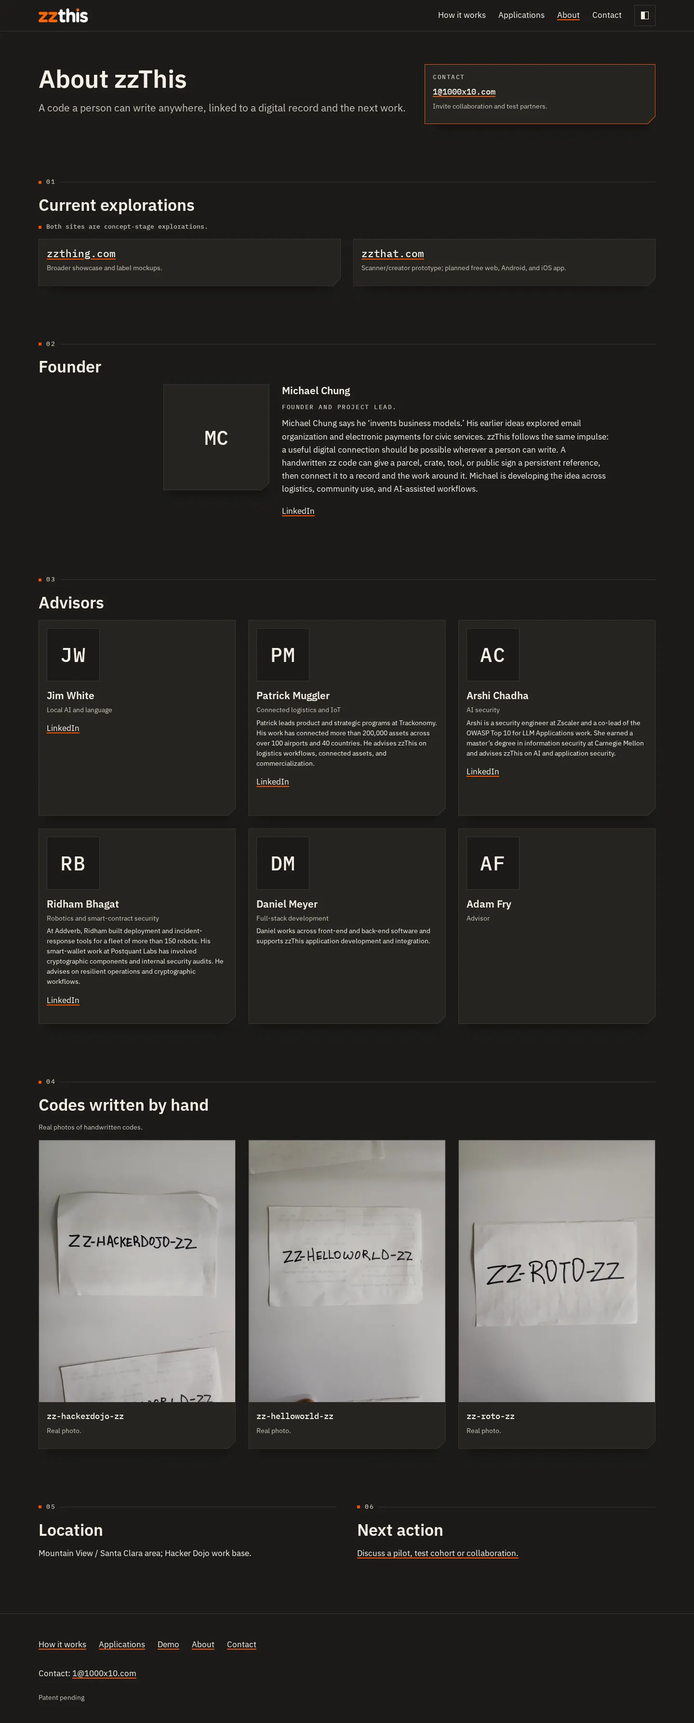
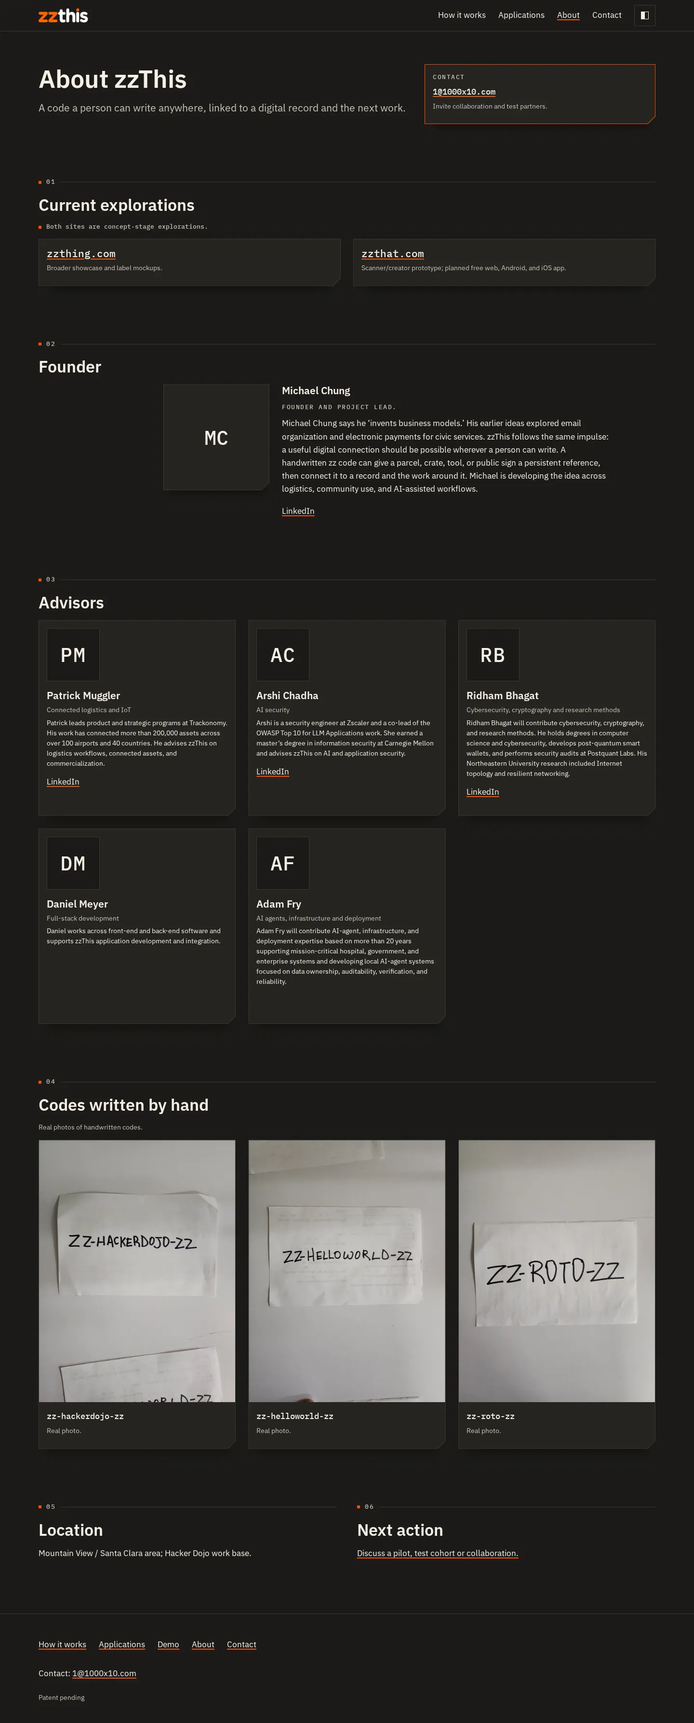
content: apply Michael's further answers to issue #10 (advisors, suggestion policy) (#23)

diff --git a/src/content/people.ts b/src/content/people.ts
@@ -36,15 +36,9 @@ export const founder: Founder = {
 
 // Q6, Q10, Q12, Q16 [MICHAEL 2026-10-02]: initials cards until approved
 // headshots arrive; profile links only where a URL was supplied. The
-// 2026-10-02 brief and wireframes list Jim White again and drop the Future
-// space card.
+// 2026-10-02 brief and wireframes drop the Future space card. Michael's
+// later 2026-10-02 answers remove Jim White and update Ridham and Adam.
 export const advisors: readonly Person[] = [
-  {
-    name: "Jim White",
-    initials: "JW",
-    role: "Local AI and language",
-    profileUrl: "https://www.linkedin.com/in/jamespaulwhite/",
-  },
   {
     name: "Patrick Muggler",
     initials: "PM",
@@ -62,8 +56,8 @@ export const advisors: readonly Person[] = [
   {
     name: "Ridham Bhagat",
     initials: "RB",
-    role: "Robotics and smart-contract security",
-    bio: "At Addverb, Ridham built deployment and incident-response tools for a fleet of more than 150 robots. His smart-wallet work at Postquant Labs has involved cryptographic components and internal security audits. He advises on resilient operations and cryptographic workflows.",
+    role: "Cybersecurity, cryptography and research methods",
+    bio: "Ridham Bhagat will contribute cybersecurity, cryptography, and research methods. He holds degrees in computer science and cybersecurity, develops post-quantum smart wallets, and performs security audits at Postquant Labs. His Northeastern University research included Internet topology and resilient networking.",
     profileUrl: "https://www.linkedin.com/in/ridham-bhagat-22a047106/",
   },
   {
@@ -72,7 +66,12 @@ export const advisors: readonly Person[] = [
     role: "Full-stack development",
     bio: "Daniel works across front-end and back-end software and supports zzThis application development and integration.",
   },
-  { name: "Adam Fry", initials: "AF", role: "Advisor" },
+  {
+    name: "Adam Fry",
+    initials: "AF",
+    role: "AI agents, infrastructure and deployment",
+    bio: "Adam Fry will contribute AI-agent, infrastructure, and deployment expertise based on more than 20 years supporting mission-critical hospital, government, and enterprise systems and developing local AI-agent systems focused on data ownership, auditability, verification, and reliability.",
+  },
 ];
 
 export const peopleHeadings = {

diff --git a/tests/content.test.ts b/tests/content.test.ts
@@ -194,7 +194,6 @@ describe("navigation and people", () => {
 
   it("lists the advisors in the 2026-10-02 order, all with initials", () => {
     expect(advisors.map((person) => person.name)).toEqual([
-      "Jim White",
       "Patrick Muggler",
       "Arshi Chadha",
       "Ridham Bhagat",
@@ -209,19 +208,24 @@ describe("navigation and people", () => {
   it("applies Michael's 2026-10-02 answers", () => {
     const byName = (name: string) =>
       advisors.find((person) => person.name === name);
+    expect(advisors.some((person) => person.name === "Jim White")).toBe(false);
     expect(byName("Ridham Bhagat")?.role).toBe(
-      "Robotics and smart-contract security",
+      "Cybersecurity, cryptography and research methods",
     );
-    expect(byName("Adam Fry")).toEqual({
-      name: "Adam Fry",
-      initials: "AF",
-      role: "Advisor",
-    });
+    expect(byName("Ridham Bhagat")?.bio).toMatch(
+      /^Ridham Bhagat will contribute/,
+    );
+    expect(byName("Adam Fry")?.role).toBe(
+      "AI agents, infrastructure and deployment",
+    );
+    expect(byName("Adam Fry")?.bio).toMatch(/^Adam Fry will contribute/);
+    expect(byName("Adam Fry")?.profileUrl).toBeUndefined();
     for (const name of [
       "Patrick Muggler",
       "Arshi Chadha",
       "Ridham Bhagat",
       "Daniel Meyer",
+      "Adam Fry",
     ]) {
       expect(byName(name)?.bio).toBeTruthy();
     }

diff --git a/docs/SPEC.md b/docs/SPEC.md
@@ -226,11 +226,11 @@ The controlled swipe row uses CSS scroll snap and a visible peek of the next car
 | 1 | H1 and intro | H1 and intro (1.618) beside the contact card (1) |
 | 2 | Current explorations, stacked | zzthing.com and zzthat.com, 2 across |
 | 3 | Founder card | Initials card (1) beside the bio (1.618) |
-| 4 | Advisors, one stacked card each [WIRE] | 3 across: Jim White, Patrick Muggler, Arshi Chadha; then Ridham Bhagat, Daniel Meyer, Adam Fry [MICHAEL 2026-10-02] |
+| 4 | Advisors, one stacked card each [WIRE] | 3 across: Patrick Muggler, Arshi Chadha, Ridham Bhagat; then Daniel Meyer, Adam Fry [MICHAEL 2026-10-02] |
 | 5 | Codes written by hand (real photos) | 3 across |
 | 6 | Location, then Next action | Location and Next action, 2 across [WIRE] |
 
-The 2026-10-02 brief and wireframes list Jim White again ("Local AI and language"), add Adam Fry ("Advisor"), and drop the Future space card [MICHAEL 2026-10-02]. This supersedes the 2026-10-01 wireframe annotation that removed Jim White. Photos: initials cards until Michael supplies approved original headshots, and the implementer does not scrape LinkedIn [MICHAEL 2026-10-02] (Q6 RESOLVED).
+The 2026-10-02 brief and wireframes add Adam Fry and drop the Future space card. Michael's later 2026-10-02 answers remove Jim White from the advisors [MICHAEL 2026-10-02]. Photos: initials cards until Michael supplies approved original headshots, and the implementer does not scrape LinkedIn [MICHAEL 2026-10-02] (Q6 RESOLVED).
 
 **Overrides to H.1–H.3**
 
@@ -397,12 +397,12 @@ The layout follows Section 3.1a.
 | Contact card | "1@1000x10.com. Invite collaboration and test partners." | [WIRE] |
 | H2 Current explorations | zzthing.com: "Broader showcase and label mockups." zzthat.com: "Scanner/creator prototype; planned free web, Android, and iOS app." [MICHAEL 2026-10-02] Concept label 2 (Section 3.1a) | [WIRE] [BRIEF] |
 | H2 Founder | Michael Chung, "Founder and project lead." Bio (founder origin): "Michael Chung says he ‘invents business models.’ His earlier ideas explored email organization and electronic payments for civic services. zzThis follows the same impulse: a useful digital connection should be possible wherever a person can write. A handwritten zz code can give a parcel, crate, tool, or public sign a persistent reference, then connect it to a record and the work around it. Michael is developing the idea across logistics, community use, and AI-assisted workflows." A longer founder history can follow later. LinkedIn: https://www.linkedin.com/in/unitynow | [MICHAEL 2026-10-02] (Q8 RESOLVED); placement [OPERATOR 2026-10-02] (Q24) |
-| H2 Advisors | Cards: Jim White, "Local AI and language"; Patrick Muggler, "Connected logistics and IoT"; Arshi Chadha, "AI security"; Ridham Bhagat, "Robotics and smart-contract security"; Daniel Meyer, "Full-stack development"; Adam Fry, "Advisor". Bios for Patrick, Arshi, Ridham, and Daniel are verbatim from the brief (`src/content/people.ts`). | [MICHAEL 2026-10-02] |
+| H2 Advisors | Cards: Patrick Muggler, "Connected logistics and IoT"; Arshi Chadha, "AI security"; Ridham Bhagat, "Cybersecurity, cryptography and research methods"; Daniel Meyer, "Full-stack development"; Adam Fry, "AI agents, infrastructure and deployment". Bios for Patrick, Arshi, and Daniel are verbatim from the brief; Ridham and Adam bios are verbatim from Michael's later 2026-10-02 answers (`src/content/people.ts`). | [MICHAEL 2026-10-02] |
 | H2 Codes written by hand | Real photos: zz-hackerdojo-zz, zz-helloworld-zz, zz-roto-zz. Label: "Real photos of handwritten codes." | [ASSETS]; label INFERRED |
 | Location | "Mountain View / Santa Clara area; Hacker Dojo work base." | [WIRE] [BRIEF] |
 | Next action | "Discuss a pilot, test cohort or collaboration." → mailto | [WIRE] |
 
-**Advisor card (INFERRED).** Each card shows initials in IBM Plex Mono at 42 px inside a 1:1 tile, then the name as H3, the role line, the bio where supplied, and a LinkedIn link where a URL was supplied [MICHAEL 2026-10-02]: Michael Chung, Jim White, Patrick Muggler, Arshi Chadha, Ridham Bhagat. Daniel Meyer and Adam Fry have no URL or headshot yet; Adam Fry has no specialty or bio yet (Q10, Q12).
+**Advisor card (INFERRED).** Each card shows initials in IBM Plex Mono at 42 px inside a 1:1 tile, then the name as H3, the role line, the bio where supplied, and a LinkedIn link where a URL was supplied [MICHAEL 2026-10-02]: Michael Chung, Patrick Muggler, Arshi Chadha, Ridham Bhagat. Daniel Meyer and Adam Fry have no URL or headshot yet (Q10, Q12).
 
 ### 3.6 Contact (`/contact`)
 
@@ -512,7 +512,7 @@ Input: a text field labeled "Type a zz code", a Look up button, and example chip
 | B0 idle | — | Field and chips |
 | B1 resolved | Normalized input matches a mock code | Record card (mock) |
 | B2 (removed) | Removed on 2026-10-02 (issue #12). A miss never lists or suggests other codes. | None |
-| B3 abstain-unknown | Valid grammar, no exact match | "No match. The demo will not guess. Check the words and try again." Placeholder wording until Q20 is answered |
+| B3 abstain-unknown | Valid grammar, no exact match | "No match. The demo will not guess. Check the words and try again." The public demo stays exact match only (Q20, Q40); wording is a placeholder |
 | B4 abstain-malformed | Parser rejects the input | "This is not a zz code. Use the form zz-word-word-zz." |
 
 **Parser (`src/lib/grammar.ts`, INFERRED, demo only)**
@@ -648,7 +648,7 @@ package-lock.json
 6. The Home section order matches Section 3.1a. Field logistics and From photo to action contain the most image cards on Home.
 7. Panel placement matches Section 3.8. j, k, and l render as an ordered list labeled 01 to 03.
 8. Concept labels follow Section 3.1a [MICHAEL 2026-10-02]: standalone panels carry "Concept illustration", each grouped gallery has one label above it, and the About prototype block has one. `/zzthis/demo` shows the "Demo · mock data" badge on every step, A0–A7 and B0–B4.
-9. The advisor list is Jim White, Patrick Muggler, Arshi Chadha, Ridham Bhagat, Daniel Meyer, and Adam Fry [MICHAEL 2026-10-02]. Every page footer shows "Patent pending".
+9. The advisor list is Patrick Muggler, Arshi Chadha, Ridham Bhagat, Daniel Meyer, and Adam Fry [MICHAEL 2026-10-02]. Every page footer shows "Patent pending".
 10. No page shows a portrait. Advisor and founder cards use initials.
 11. Flow A reaches A7 with the keyboard alone. A7 states that nothing was submitted.
 12. Flow B produces each outcome for the test inputs in Section 4.4.
@@ -688,15 +688,16 @@ Michael's answers arrived on 2026-10-02 through Danny (issue #10), in an updated
 | Q9 | Should a patent notice appear in the footer? | RESOLVED: footer shows the words "Patent pending" [MICHAEL 2026-10-02] |
 | Q10 | Profile URLs and bios for Patrick Muggler, Arshi Chadha, and Daniel Meyer | PARTLY RESOLVED: bios for Patrick, Arshi, and Daniel; LinkedIn URLs for Patrick and Arshi [MICHAEL 2026-10-02]. Still OPEN: Daniel's profile URL and project accomplishments |
 | Q11 | Should the remaining handwritten photos and the zz-code mark be used? | RESOLVED: b hero; a and c field logistics; g parcel; h community; lowercase zz code as text in the explainer [MICHAEL 2026-10-02] |
-| Q12 | Should Adam Fry (named in [PRODUCT]) be listed? | RESOLVED: yes, initials card, role "Advisor" [MICHAEL 2026-10-02]. Still OPEN: his specialty, bio, profile URL, and photo |
+| Q12 | Should Adam Fry (named in [PRODUCT]) be listed? | RESOLVED: yes, initials card; specialty "AI agents, infrastructure and deployment" and bio supplied [MICHAEL 2026-10-02]. Still OPEN: profile URL and photo |
 | Q13 | CI | Closed: PR #1 `ci.yml` (job `build`) is the required check; do not edit or duplicate it; optional `site-ci.yml` runs typecheck and test only [OPERATOR 2026-10-01] |
 | Q14 | Public wording for the technology page | RESOLVED: draft wording supplied (stored in `technology.ts`); no empty page; the page enters navigation only with that content plus an example [MICHAEL 2026-10-02] |
 | Q15 | Domain | Closed for launch: GitHub Pages project URL https://zero-state-llc.github.io/zzthis/, no custom domain or DNS [OPERATOR 2026-10-01] |
-| Q16 | Ridham Bhagat's role: "robotics and resilient operations" [BRIEF] or "robotics and operations" [WIRE]? | RESOLVED: "Robotics and smart-contract security", with the supplied bio [MICHAEL 2026-10-02] |
+| Q16 | Ridham Bhagat's role: "robotics and resilient operations" [BRIEF] or "robotics and operations" [WIRE]? | RESOLVED: "Cybersecurity, cryptography and research methods", with the updated bio from Michael's later answers (replaces "Robotics and smart-contract security") [MICHAEL 2026-10-02] |
 | Q17 | Concept label wording | RESOLVED: "Concept illustration" on standalone AI-render panels; one label above a grouped gallery (Section 3.1a) [MICHAEL 2026-10-02] |
 | Q18 | Should we fine-tune our own small model for on-device capture (Option B, Section 10.8)? | OPEN, deferred: ship Option A now, run a 2-week Option B prototype, switch the on-device reader if it wins; cloud vision stays for retries [OPERATOR 2026-10-02] |
 | Q19 | How do partner apps authenticate to the API (Section 10.6)? | OPEN; no default chosen yet [OPERATOR 2026-10-02] |
-| Q20 | Does the demo's code lookup show "no match" (not "did you mean") for unrelated codes such as `zz-apple-sky-zz` vs `zz-b2-4-zz`? | OPEN; asked in issue #10, not yet answered. Default: "no match" |
+| Q20 | Does the demo's code lookup show "no match" (not "did you mean") for unrelated codes such as `zz-apple-sky-zz` vs `zz-b2-4-zz`? | PARTLY RESOLVED: it depends on context. Suggestions can be acceptable for free public, fully internal, or consumer personal-inventory use; high-security deployments are strict pass or fail, possibly graded by the type of misread [MICHAEL 2026-10-02]. Recorded as a per-deployment suggestion policy (Section 10.4, Q40). The public demo stays exact match only because it exposes real codes [OPERATOR 2026-10-02]. Miss wording still a placeholder |
+| Q40 | Suggestion policy details: which deployment types may enable suggestions, what a suggestion may reveal, and how high-security deployments grade misreads | OPEN [MICHAEL 2026-10-02]; default: off; never on for high-security deployments |
 | Q21 | Touch-first verbs differ across the brief, wireframe, and demo. Which set is canonical? | OPEN; default: keep the demo as built (spec 001) |
 | Q22 | Field logistics panels: a and c [BRIEF], or a, b, and c [WIRE]? | OPEN; default: keep as built (spec 001) |
 | Q23 | Should a real handwritten photo replace the hero render? | OPEN; default: keep panel b with its label (spec 001) |
@@ -780,7 +781,8 @@ The code on paper is public, so security lives in the resolver [OPERATOR 2026-10
 - **Single use and short expiry** where the code format calls for them (Section 2.2 formats).
 - **Rate limits** per client, per role, and per code, to slow enumeration.
 - **Tiered views.** The resolver returns a view scoped to the caller's role. SD-JWT (selective disclosure) is an option for these views, not a commitment.
-- **Exact match only.** The resolver matches the exact code and never suggests live codes. Fuzzy correction happens on the client against the closed wordlist and checksum, never by asking the server for nearby codes.
+- **Exact match by default.** The resolver matches the exact code and does not suggest live codes. Fuzzy correction happens on the client against the closed wordlist and checksum, never by asking the server for nearby codes.
+- **Suggestion policy (OPEN, [MICHAEL 2026-10-02]).** Whether a miss may return suggestions depends on the deployment. It can be acceptable for free public, fully internal, or consumer personal-inventory use; high-security deployments are strict pass or fail, possibly graded by the type of misread. The resolver carries a per-tenant suggestion policy that is off by default and can never be turned on for a high-security tenant. Details are TBD (Q40). The public site demo stays exact match only, because it exposes real codes.
 - **Handwriting first.** Handwritten codes must work. Printed marks or steganography are optional add-ons only, never required to resolve.
 
 All bullets above are [OPERATOR 2026-10-02].

diff --git a/specs/001-marketing-site/spec.md b/specs/001-marketing-site/spec.md
@@ -73,7 +73,7 @@ Acceptance: `/contact`, the Home contact action, the About contact card, and the
 | FR-010 | `/technology` is not built and nothing links to it until it has Michael's draft explanation plus a supporting example. | [MICHAEL 2026-10-02] |
 | FR-011 | The demo is scripted: no recognition, no backend, no camera, microphone, network calls, or storage. Every step shows "Demo · mock data". | [OPERATOR 2026-10-01] |
 | FR-012 | The demo is fully usable by keyboard. Drag is never required. Reduced motion removes transitions. Without JavaScript, a static list of steps appears. | INFERRED (`docs/SPEC.md` Section 4.5) |
-| FR-013 | Flow B (look up a code) never reveals other codes on a miss. | Required by constitution principle III and issue #12. Only the wording of the miss state is OPEN (Q20); the demo uses the existing "No match" sentence as a placeholder. Suggestions removed by T010. |
+| FR-013 | Flow B (look up a code) never reveals other codes on a miss. | Required by constitution principle III and issue #12. The public demo stays exact match only even though deployments may later enable a suggestion policy (Q20 partly resolved, Q40), because the demo exposes real codes. The wording is a placeholder. Suggestions removed by T010. |
 | FR-014 | The site makes no runtime requests to other origins, has no analytics, and has no service worker. | [OPERATOR 2026-10-01] |
 | FR-015 | Light and dark themes both meet text contrast of at least 4.5:1. | `docs/SPEC.md` Section 8, item 16 |
 | FR-016 | When the free zzThat app launches, the main navigation gains a prominent "Try zzThat" action that links to zzthat.com. | [MICHAEL 2026-10-02]; launch trigger OPEN (Q39) |
@@ -97,8 +97,8 @@ Real recognition, a real resolver, accounts, forms or email backends, analytics,
 | ID | Question | Default |
 |---|---|---|
 | Q10 (part) | Daniel Meyer's profile URL and project accomplishments | Role and bio only |
-| Q12 (part) | Adam Fry's specialty, bio, profile URL, and photo | "Advisor" only |
-| Q20 | Flow B behavior on a miss | "No match"; see FR-013 and issue #12 |
+| Q12 (part) | Adam Fry's profile URL and photo | Specialty and bio supplied [MICHAEL 2026-10-02] |
+| Q20 | Flow B behavior on a miss | PARTLY RESOLVED: context dependent [MICHAEL 2026-10-02]; the public demo stays "No match" (FR-013). Policy details: Q40 |
 | Q39 | What event or date counts as the zzThat app launch for FR-016? | None chosen |
 | Q21 | Which handling verbs does the demo show? The brief lists pack, ship, return, repair, and dispose [BRIEF]; the 2026-10-02 wireframe shows Pack, Ship, Turn In, Dispose; the demo uses Pack, Return, Repair, Dispose (OBSERVED). | Keep the demo as built |
 | Q22 | Field logistics panels: the brief says a and c; the 2026-10-02 wireframe shows a, b, c. The site shows a, the b alternate, and c (OBSERVED). | Keep as built |

diff --git a/specs/002-resolver-core/spec.md b/specs/002-resolver-core/spec.md
@@ -54,7 +54,7 @@ As a field user who wrote a code by hand with no device, I can link it to a reco
 
 | ID | Requirement | Source |
 |---|---|---|
-| FR-001 | Exact-match lookup only. No fuzzy matching on the server and no live-code suggestions. | [OPERATOR 2026-10-02] |
+| FR-001 | Exact-match lookup by default. No fuzzy matching on the server and no live-code suggestions unless FR-012 allows them for the tenant. | [OPERATOR 2026-10-02] [MICHAEL 2026-10-02] |
 | FR-002 | Every record change creates a new immutable version signed by the server. | [OPERATOR 2026-10-02] |
 | FR-003 | Append-only audit log for every call that changes state, and for resolves. | [OPERATOR 2026-10-02]; "every call" is INFERRED (`docs/SPEC.md` Section 10.6) |
 | FR-004 | Single-use and expiry where the code format calls for them; a single-use code is marked used in the same write that resolves it. | [OPERATOR 2026-10-02]; same-write rule INFERRED |
@@ -65,6 +65,7 @@ As a field user who wrote a code by hand with no device, I can link it to a reco
 | FR-009 | Handwritten codes resolve the same way as printed ones; no printed-only feature is required. | [OPERATOR 2026-10-02] |
 | FR-010 | Abuse cases to defend: copied marks, replay, enumeration, unauthorized updates, malformed input. Each abuse case gets a test with a stated pass condition in tasks.md. | [PRODUCT]; test rule INFERRED |
 | FR-011 | A lookup for a code that does not exist and a lookup for a revoked code return the same response shape and status, so a caller cannot tell them apart or enumerate codes. | INFERRED from FR-001 and the plan's timing risk |
+| FR-012 | Per-tenant suggestion policy. Off by default. A tenant marked high-security can never turn it on and gets strict pass or fail, possibly graded by the type of misread. Which tenant types may enable it, and what a suggestion may reveal, are OPEN (Q40). | [MICHAEL 2026-10-02]; defaults [OPERATOR 2026-10-02] |
 
 ## Success criteria
 
@@ -84,6 +85,7 @@ Recognition (spec 004), the wordlist and check word (spec 003), payments, partne
 | Q27 | Which code formats does the prototype support first (two-word, three-word, check word, prefix, enterprise, one-time, reusable-account [PRODUCT])? | None chosen |
 | Q28 | Where the server's record-signing keys live and how they rotate | None chosen; blocks T001 |
 | Q29 | Where the resolver code lives (this repo or a separate repo) | None chosen; blocks T001 |
+| Q40 | Suggestion policy details: allowed tenant types, what a suggestion reveals, misread grading for high-security tenants | Off by default; never on for high-security [MICHAEL 2026-10-02] |
 | Q36 | Can the words of a revoked, used, or expired code be issued again? Reissue would let a copied old mark open a new record. | None chosen; "never reissue" proposed for Danny |
 
 ## Workflows

diff --git a/docs/BUILD-BRIEF.md b/docs/BUILD-BRIEF.md
@@ -17,7 +17,7 @@ Build the zzThis marketing site and scripted click-through demo as a static Astr
 - `src/pages/404.astro` → `dist/404.html`. No service worker, no analytics, no runtime requests to other origins. IBM Plex Sans + Plex Mono self-hosted via `@fontsource`.
 - Visual system (spec §5): charcoal/cream, light AND dark (respect `prefers-color-scheme` + toggle), one sparing accent = zzThis brand orange from the logo (~#F85000), cut lower-right corner cards with fine edge and separate floating shadow, equal footprints per series, thin construction lines, golden ratio 1:1.618 for hero split/card aspect/spacing where it does not break responsive layout. Check 320/390/900/1440 px; contrast ≥ 4.5:1.
 - Copy: use spec copy verbatim (it is cited to Michael's brief and wireframes). No em dashes in rendered copy, except the hero H1 "writable—and smart." (Michael's choice, spec Q1, 2026-10-02). Never present unmeasured performance numbers as results, and do not publish research targets (Q7, Q24). No claims of pilots, customers, endorsement, or adoption. Do not quote private source documents on the site. Panel images are concept renderings: label them per spec §3.1a ("Concept illustration" on standalone panels, one label per grouped gallery); handwritten photos are real.
-- Advisors (updated 2026-10-02, spec §3.5): Jim White, Patrick Muggler, Arshi Chadha, Ridham Bhagat, Daniel Meyer, Adam Fry. Initials cards, no portraits, no LinkedIn scraping.
+- Advisors (updated 2026-10-02, spec §3.5): Patrick Muggler, Arshi Chadha, Ridham Bhagat, Daniel Meyer, Adam Fry. Initials cards, no portraits, no LinkedIn scraping.
 - Demo `/demo` (spec §4): fully scripted, no camera, no fetch, no storage, mock data only, "Demo · mock data" badge on every step. Flow A crate → photo → detected code + checksum → linked record → AI-suggested handling (tap or simulated voice chip) → prepared turn-in form for REVIEW (nothing submits). Flow B typed resolver lookup: resolve / did-you-mean + confirm / abstain. Keyboard and screen reader operable; reduced motion respected.
 - Code quality (anti-slop-code): TypeScript strict, zero `any`, files < 500 lines, functions under complexity 22, no dead code. Vitest with 100% line+branch coverage on `src/lib/*` (grammar, resolver mock, url) and the demo state machine. ESLint + Prettier. Do not disable lint rules to pass.
 - Repo lean: images ≤ 15 MB, no file > 2 MB. Never add private source documents, the original PNGs, or any password/token.

diff --git a/.specify/memory/constitution.md b/.specify/memory/constitution.md
@@ -1,6 +1,6 @@
 # zzThis constitution
 
-Version 1.0.0. Ratified: pending (draft for operator acceptance in the PR that adds this file). Amend through a pull request that bumps the version and records the change at the end of this file.
+Version 1.1.0. Ratified: pending (draft for operator acceptance in the PR that adds this file). Amend through a pull request that bumps the version and records the change at the end of this file.
 
 This file is the governing contract for every zzThis spec, plan, and task under `specs/`. When an artifact conflicts with this file, this file wins until it is amended. Product-true locks from the operator win over this file.
 
@@ -22,9 +22,9 @@ The visible words are a public identifier, not a password or a key [PRODUCT]. Au
 
 A code a person writes by hand must work. Printed marks, steganography, and other machine-only features are optional add-ons and are never required to resolve a code [OPERATOR 2026-10-02].
 
-### III. Exact match, no live-code hints
+### III. Exact match, no live-code hints by default
 
-A resolver matches the exact code. It never suggests other live codes, and unknown, used, expired, and revoked codes look the same to a caller. Correction happens on the client against the closed wordlist and the check word [OPERATOR 2026-10-02]. Demos must not teach the opposite pattern (issue #12).
+A resolver matches the exact code. By default it never suggests other live codes, and unknown, used, expired, and revoked codes look the same to a caller. Correction happens on the client against the closed wordlist and the check word [OPERATOR 2026-10-02]. Demos must not teach the opposite pattern (issue #12). A deployment may enable suggestions only through an explicit per-tenant suggestion policy that is off by default and never on for high-security tenants; the details are OPEN (Q40) [MICHAEL 2026-10-02]. The public site demo stays exact match only.
 
 ### IV. Honest status
 
@@ -68,3 +68,4 @@ Do not weaken tests, fixtures, or CI to force green. Open a `bug` issue instead 
 | Version | Date | Change |
 |---|---|---|
 | 1.0.0 | 2026-10-02 | First draft, derived from `docs/SPEC.md`, repo `AGENTS.md`, and operator decisions to date. |
+| 1.1.0 | 2026-10-02 | Principle III allows a per-tenant suggestion policy, off by default and never on for high-security tenants (Michael's Q20 answer, Q40). |

diff --git a/specs/README.md b/specs/README.md
@@ -8,8 +8,8 @@ zzThis uses [Spec Kit](https://github.com/github/spec-kit) order: constitution, 
 
 | ID | Feature | Built? | specify | clarify | plan | checklist | tasks | analyze |
 |---|---|---|---|---|---|---|---|---|
-| [001](001-marketing-site/spec.md) | Marketing site and scripted demo | Yes, live on GitHub Pages | Done | Open: Q10, Q12, Q20 to Q24, Q39 | Done | [Done](001-marketing-site/checklists/requirements.md) | [Done](001-marketing-site/tasks.md) | Done |
-| [002](002-resolver-core/spec.md) | Resolver core | No | Done | Open: Q19, Q25 to Q29, Q36 | Proposal | Not started | [Draft](002-resolver-core/tasks.md) | Done |
+| [001](001-marketing-site/spec.md) | Marketing site and scripted demo | Yes, live on GitHub Pages | Done | Open: Q10, Q12, Q20 (part) to Q24, Q39, Q40 | Done | [Done](001-marketing-site/checklists/requirements.md) | [Done](001-marketing-site/tasks.md) | Done |
+| [002](002-resolver-core/spec.md) | Resolver core | No | Done | Open: Q19, Q25 to Q29, Q36, Q40 | Proposal | Not started | [Draft](002-resolver-core/tasks.md) | Done |
 | [003](003-wordlist-checkword/spec.md) | Wordlist and check word | No | Done | Open: Q27, Q30 to Q32, Q35 | Proposal | Not started | [Draft](003-wordlist-checkword/tasks.md) | Done |
 | [004](004-capture/spec.md) | Capture by camera, typing, or voice | No | Done | Open: Q18, Q33, Q34, Q37, Q38 | Proposal | Not started | [Draft](004-capture/tasks.md) | Done |
 

diff --git a/specs/001-marketing-site/tasks.md b/specs/001-marketing-site/tasks.md
@@ -24,7 +24,7 @@ Workflows for every implementing task: anti-slop-code, production-systems, googl
 ## Phase 4: US3, About (P2)
 
 - [x] T008 Founder origin, advisor cards with bios and supplied links (PR #16).
-- [ ] T009 [P] Add Daniel Meyer's profile URL and Adam Fry's specialty, bio, and link when supplied (Q10, Q12). Blocked on Michael.
+- [ ] T009 [P] Add Daniel Meyer's profile URL and accomplishments, and Adam Fry's link and photo, when supplied (Q10, Q12). Adam's specialty and bio, Ridham's updated role and bio, and Jim White's removal are done. Blocked on Michael.
 
 ## Phase 5: US4, Demo (P2)
 

diff --git a/specs/002-resolver-core/tasks.md b/specs/002-resolver-core/tasks.md
@@ -41,3 +41,4 @@ Workflows for every implementing task: anti-slop-code, production-systems, googl
 
 - [ ] T014 US5 no-device linking after Q25 is answered.
 - [ ] T015 Partner authentication after Q19 is answered.
+- [ ] T016 Per-tenant suggestion policy (FR-012): off by default, blocked for high-security tenants, with tests for both. Details after Q40 is answered.
